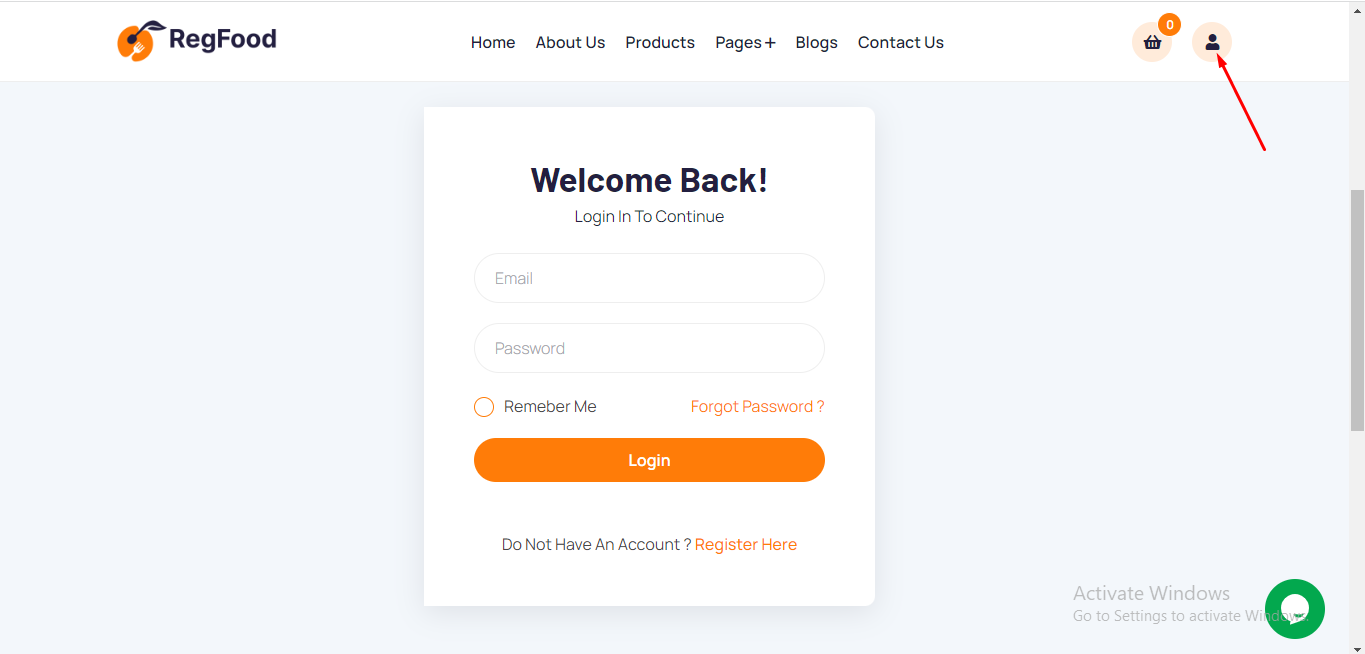
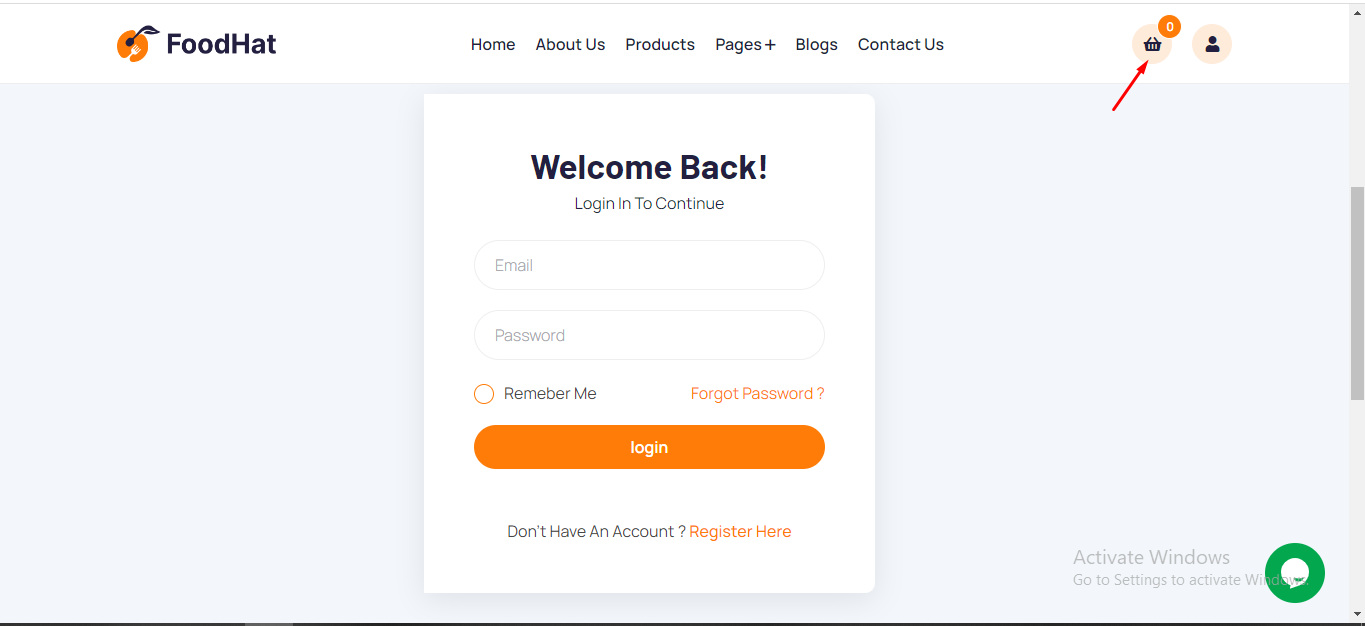
foohat isseu fixed

diff --git a/PHP/script_content/main_files/lang/en/user.php b/PHP/script_content/main_files/lang/en/user.php
@@ -15,8 +15,8 @@
   'First Name' => 'First Name',
   'Last Name' => 'Last Name',
   'Email' => 'Email',
-  'home' => 'home',
-  'office' => 'office',
+  'home' => 'Home',
+  'office' => 'Office',
   'Save Address' => 'Save Address',
   'Edit Address' => 'Edit Address',
   'Update Address' => 'Update Address',
@@ -27,29 +27,29 @@
   'Confirm Password' => 'Confirm Password',
   'My Profile' => 'My Profile',
   'Edit' => 'Edit',
-  'cancel' => 'cancel',
+  'cancel' => 'Cancel',
   'Update' => 'Update',
   'Orders' => 'Orders',
-  'go back' => 'go back',
-  'order pending' => 'order pending',
-  'order accept' => 'order accept',
-  'order process' => 'order process',
-  'on the way' => 'on the way',
+  'go back' => 'Go back',
+  'order pending' => 'Order Pending',
+  'order accept' => 'Order Accept',
+  'order process' => 'Order Process',
+  'on the way' => 'On the Way',
   'Completed' => 'Completed',
-  'order declined' => 'order declined',
-  'estimated delivery time' => 'estimated delivery time',
+  'order declined' => 'Order Declined',
+  'estimated delivery time' => 'Estimated Delivery Time',
   'Minutes' => 'Minutes',
-  'invoice to' => 'invoice to',
+  'invoice to' => 'Invoice to',
   'Order ID' => 'Order ID',
-  'date' => 'date',
+  'date' => 'Date',
   'Payment' => 'Payment',
   'SL' => 'SL',
-  'item description' => 'item description',
+  'item description' => 'Item Description',
   'Unit Price' => 'Unit Price',
   'Quantity' => 'Quantity',
   'Total' => 'Total',
-  'sub total' => 'sub total',
-  'Discount coupon' => 'Discount coupon',
+  'sub total' => 'Sub Total',
+  'Discount coupon' => 'Discount Coupon',
   'Delivery Charge' => 'Delivery Charge',
   'Grand Total' => 'Grand Total',
   'Order' => 'Order',
@@ -68,26 +68,26 @@
   'Person' => 'Person',
   'Approved' => 'Approved',
   'Review List' => 'Review List',
-  'active' => 'active',
-  'inactive' => 'inactive',
+  'active' => 'Active',
+  'inactive' => 'Inactive',
   'Wishlist' => 'Wishlist',
   'Reviews' => 'Reviews',
   'Logout' => 'Logout',
-  'add to cart' => 'add to cart',
+  'add to cart' => 'Add to Cart',
   'Are you realy want to remove wishlist item ?' => 'Are you realy want to remove wishlist item ?',
   'Yes, Remove It' => 'Yes, Remove It',
   'About Us' => 'About Us',
-  'testimonial' => 'testimonial',
-  'our customar feedbacks' => 'our customar feedbacks',
+  'testimonial' => 'Testimonial',
+  'our customar feedbacks' => 'Our Customers Feedback',
   'Our Blogs' => 'Our Blogs',
   'Blog Not Found' => 'Blog Not Found',
-  'read more' => 'read more',
+  'read more' => 'Read More',
   'Comments' => 'Comments',
-  'share' => 'share',
-  'Write a comment' => 'Write a comment',
+  'share' => 'Share',
+  'Write a comment' => 'Write a Comment',
   'Your email address will not be published. Required fields are marked' => 'Your email address will not be published. Required fields are marked',
-  'name' => 'name',
-  'comment' => 'comment',
+  'name' => 'Name',
+  'comment' => 'Comment',
   'Your Comment' => 'Your Comment',
   'Submit comment' => 'Submit comment',
   'Search' => 'Search',
@@ -95,72 +95,72 @@
   'Categories' => 'Categories',
   'Please complete the recaptcha to submit the form' => 'Please complete the recaptcha to submit the form',
   'Shopping Cart' => 'Shopping Cart',
-  'Your shopping cart is empty!' => 'Your shopping cart is empty!',
+  'Your shopping cart is empty!' => 'Your Shopping Cart is Empty!',
   'Image' => 'Image',
-  'details' => 'details',
-  'price' => 'price',
-  'quantity' => 'quantity',
-  'total' => 'total',
-  'clear all' => 'clear all',
-  'total price' => 'total price',
-  'subtotal' => 'subtotal',
-  'discount' => 'discount',
-  'delivery' => 'delivery',
+  'details' => 'Details',
+  'price' => 'Price',
+  'quantity' => 'Quantity',
+  'total' => 'Total',
+  'clear all' => 'Clear All',
+  'total price' => 'Total Price',
+  'subtotal' => 'Subtotal',
+  'discount' => 'Discount',
+  'delivery' => 'Delivery',
   'Coupon Code' => 'Coupon Code',
-  'apply' => 'apply',
-  'checkout' => 'checkout',
-  'Server error occured' => 'Server error occured',
-  'Please select a size' => 'Please select a size',
-  'Your cart is empty' => 'Your cart is empty',
-  'total cart' => 'total cart',
+  'apply' => 'Apply',
+  'checkout' => 'Checkout',
+  'Server error occured' => 'Server Error Occured',
+  'Please select a size' => 'Please Select a Size',
+  'Your cart is empty' => 'Your Cart is Empty',
+  'total cart' => 'Total Cart',
   'Checkout' => 'Checkout',
-  'select address' => 'select address',
+  'select address' => 'Select Address',
   'New Address' => 'New Address',
-  'add new address' => 'add new address',
-  'Continue to pay' => 'Continue to pay',
-  'Please select an address' => 'Please select an address',
+  'add new address' => 'Add New Address',
+  'Continue to pay' => 'Continue to Pay',
+  'Please select an address' => 'Please Select an Address',
   'Contact Us' => 'Contact Us',
-  'call' => 'call',
+  'call' => 'Call',
   'Location' => 'Location',
   'Contact us' => 'Contact us',
   'Subject' => 'Subject',
   'Message' => 'Message',
-  'send message' => 'send message',
+  'send message' => 'Send Message',
   'FAQ' => 'FAQ',
   'Forget Password' => 'Forget Password',
   'Did you forget your password ? please submit the form below and get the reset password link' => 'Did you forget your password ? please submit the form below and get the reset password link',
   'Send Reset Link' => 'Send Reset Link',
-  'Back to login page' => 'Back to login page',
-  'Login page' => 'Login page',
-  'Type here..' => 'Type here..',
-  'search' => 'search',
-  'daily offer' => 'daily offer',
-  'up to 75% off for this day' => 'up to 75% off for this day',
-  'off' => 'off',
-  'book a table' => 'book a table',
-  'Select date' => 'Select date',
+  'Back to login page' => 'Back to Login Page',
+  'Login page' => 'Login Page',
+  'Type here..' => 'Type Here..',
+  'search' => 'Search',
+  'daily offer' => 'Daily Offer',
+  'up to 75% off for this day' => 'Up to 75% off for this day',
+  'off' => 'Off',
+  'book a table' => 'Book a Table',
+  'Select date' => 'Select Date',
   'Select Time' => 'Select Time',
-  'confirm' => 'confirm',
-  'food Menu' => 'food Menu',
+  'confirm' => 'Confirm',
+  'food Menu' => 'Food Menu',
   'Popular Delicious Foods' => 'Popular Delicious Foods',
-  'our team' => 'our team',
-  'meet our expert chefs' => 'meet our expert chefs',
-  'shop now' => 'shop now',
+  'our team' => 'Our Team',
+  'meet our expert chefs' => 'Meet Our Expert Chefs',
+  'shop now' => 'Shop Now',
   'Available on the' => 'Available on the',
   'Google Play' => 'Google Play',
   'Download on the' => 'Download on the',
   'App Store' => 'App Store',
-  'news & blogs' => 'news & blogs',
-  'our latest foods blog' => 'our latest foods blog',
+  'news & blogs' => 'News & Blogs',
+  'our latest foods blog' => 'Our Latest Foods Blog',
   'Products' => 'Products',
-  'pages' => 'pages',
-  'Our chef' => 'Our chef',
+  'pages' => 'Pages',
+  'Our chef' => 'Our Chef',
   'Testimonial' => 'Testimonial',
-  'FAQs' => 'FAQs',
-  'privacy policy' => 'privacy policy',
-  'terms and condition' => 'terms and condition',
+  'FAQs' => 'FAQ',
+  'privacy policy' => 'Privacy Policy',
+  'terms and condition' => 'Terms and Conditions',
   'Blogs' => 'Blogs',
-  'contact us' => 'contact us',
+  'contact us' => 'Contact Us',
   'Short Link' => 'Short Link',
   'Our Chef' => 'Our Chef',
   'Dashboard' => 'Dashboard',
@@ -169,7 +169,7 @@
   'Terms and Conditions' => 'Terms and Conditions',
   'Total Item' => 'Total Item',
   'Wishlist added successfully' => 'Wishlist added successfully',
-  'Please login first' => 'Please login first',
+  'Please login first' => 'Please Login First',
   'Login' => 'Login',
   'Welcome back!' => 'Welcome back!',
   'Login in to continue' => 'Login in to continue',
@@ -177,7 +177,7 @@
   'Remeber Me' => 'Remeber Me',
   'Forgot Password ?' => 'Forgot Password ?',
   'login' => 'login',
-  'Do not have an account ?' => 'Do not have an account ?',
+  'Do not have an account ?' => 'Don\'t have an account ?',
   'Register here' => 'Register here',
   'Pay' => 'Pay',
   'Transaction Information' => 'Transaction Information',
@@ -190,24 +190,24 @@
   'Please provide your valid card information' => 'Please provide your valid card information',
   'Privacy Policy' => 'Privacy Policy',
   'Our Products' => 'Our Products',
-  'Search here...' => 'Search here...',
-  'Select category' => 'Select category',
-  'Products not found!' => 'Products not found!',
-  'select size' => 'select size',
-  'select Addon' => 'select Addon',
-  'optional' => 'optional',
-  'select quantity' => 'select quantity',
+  'Search here...' => 'Search Here...',
+  'Select category' => 'Select Category',
+  'Products not found!' => 'Products Not Found!',
+  'select size' => 'Select Size',
+  'select Addon' => 'Select Addon',
+  'optional' => 'Optional',
+  'select quantity' => 'Select Quantity',
   'Description' => 'Description',
-  'reviews' => 'reviews',
-  'write a Review' => 'write a Review',
-  'rating' => 'rating',
-  'Write your review' => 'Write your review',
-  'submit review' => 'submit review',
-  'please login first' => 'please login first',
-  'related item' => 'related item',
+  'reviews' => 'Reviews',
+  'write a Review' => 'Write a Review',
+  'rating' => 'Rating',
+  'Write your review' => 'Write Your Review',
+  'submit review' => 'Submit Review',
+  'please login first' => 'Please Login First',
+  'related item' => 'Related Item',
   'Review added successfully' => 'Review added successfully',
   'Sub Total' => 'Sub Total',
-  'view cart' => 'view cart',
+  'view cart' => 'View Cart',
   'Item added successfully' => 'Item added successfully',
   'Register' => 'Register',
   'Registration' => 'Registration',
@@ -217,6 +217,6 @@
   'Reset Password' => 'Reset Password',
   'Please fill up the form below and reset your password' => 'Please fill up the form below and reset your password',
   'Terms And Conditions' => 'Terms And Conditions',
-  'add new' => 'add new',
+  'add new' => 'Add New',
 );
  ?>

diff --git a/PHP/script_content/main_files/resources/views/faq.blade.php b/PHP/script_content/main_files/resources/views/faq.blade.php
@@ -41,7 +41,7 @@
                             @foreach ($faqs as $index => $faq)
                             <div class="accordion-item">
                                 <h2 class="accordion-header" id="headingOne-{{ $faq->id }}">
-                                    <button class="accordion-button {{ $index != 1 ? 'collapsed' : '' }}" type="button" data-bs-toggle="collapse"
+                                    <button class="accordion-button {{ $index != 0 ? 'collapsed' : '' }}" type="button" data-bs-toggle="collapse"
                                         data-bs-target="#collapseOne-{{ $faq->id }}" aria-expanded="true" aria-controls="collapseOne-{{ $faq->id }}">
                                         {{ ++ $index }}. {{ $faq->question }}
                                     </button>

diff --git a/PHP/script_content/main_files/Modules/POS/Http/Controllers/POSController.php b/PHP/script_content/main_files/Modules/POS/Http/Controllers/POSController.php
@@ -49,7 +49,7 @@ class POSController extends Controller
             $products = $products->where('name','LIKE','%'.$request->name.'%');
         }
 
-        $products = $products->paginate(5);
+        $products = $products->paginate(18);
         $products = $products->appends($request->all());
 
 
@@ -84,7 +84,7 @@ class POSController extends Controller
             $products = $products->where('name','LIKE','%'.$request->name.'%');
         }
 
-        $products = $products->paginate(5);
+        $products = $products->paginate(18);
         $products = $products->appends($request->all());
 
         return view('pos::ajax_products')->with([

diff --git a/PHP/script_content/main_files/resources/views/about_us.blade.php b/PHP/script_content/main_files/resources/views/about_us.blade.php
@@ -76,7 +76,7 @@
         </div>
     </section>
 
-    <section class="tf__mission mt_100 xs_mt_70" background: url({{ asset($about_us->vision_bg) }});">
+    <section class="tf__mission mt_100 xs_mt_70" style="background: url({{ asset($about_us->vision_bg) }});">
         <div class="tf__mission_overlay pt_70 xs_pt_40 pb_100 xs_pb_70">
             <div class="container">
                 <div class="row">
